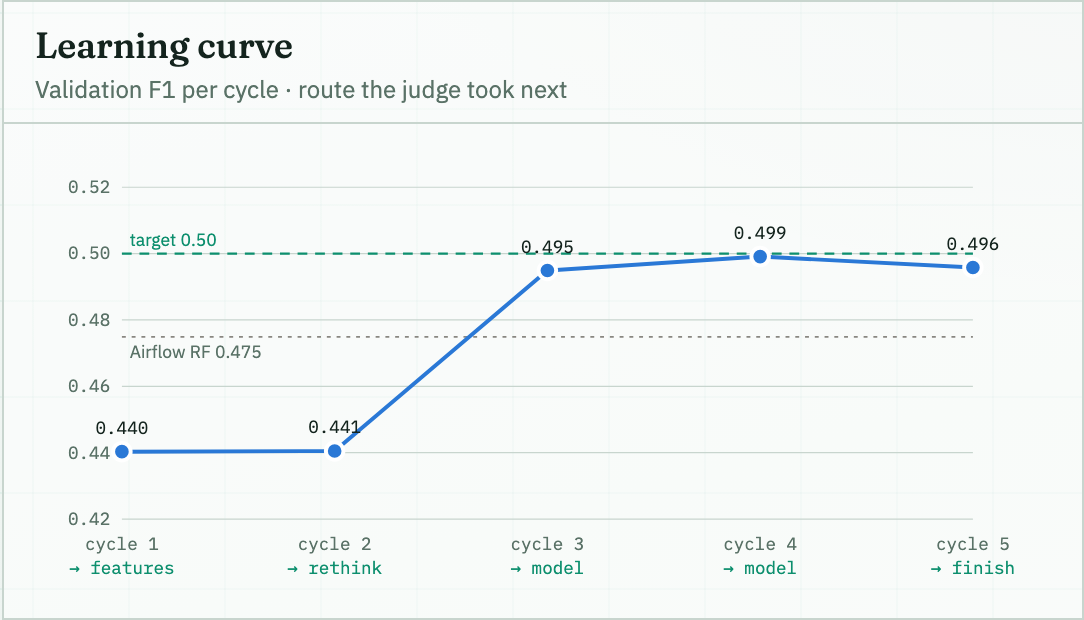
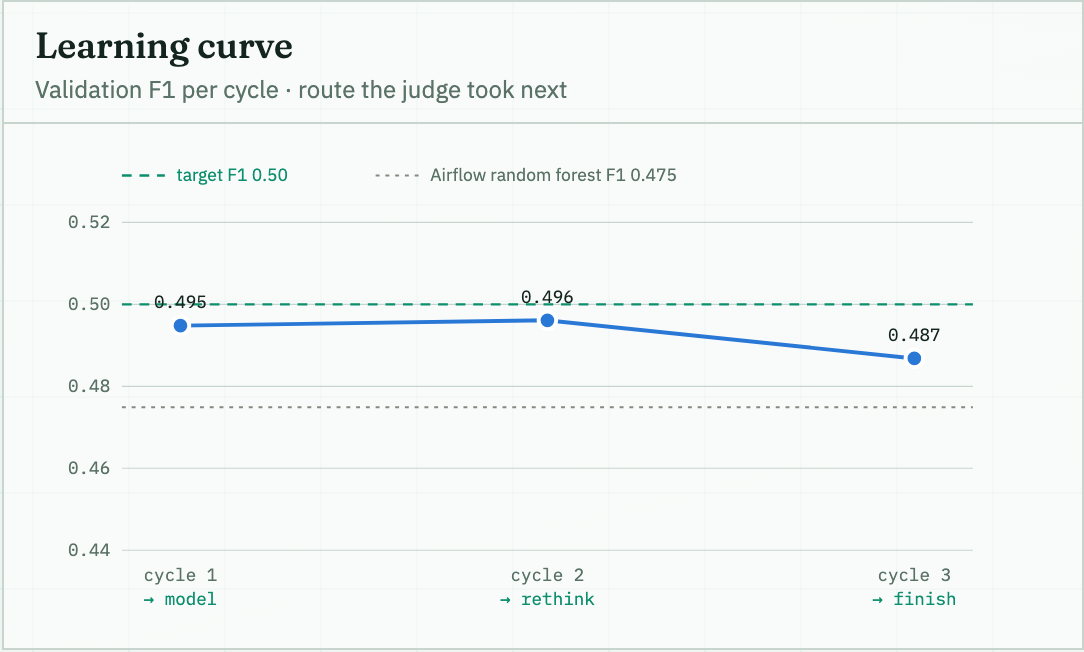
LLM-backed agent run: updated screenshots, results and fresh-architecture wording

diff --git a/frontend/src/pages/OlistLoopPage.tsx b/frontend/src/pages/OlistLoopPage.tsx
@@ -197,11 +197,12 @@ function ExperimentsTable({ rows }: { rows: ExperimentRow[] }) {
 function LearningCurve({ rows, target, airflowF1 }: { rows: ExperimentRow[]; target: number; airflowF1?: number }) {
   const pts = rows.filter((r) => typeof r.validation?.f1 === 'number')
   if (pts.length === 0) return <p className="text-sm text-mist">Plots after the first evaluation.</p>
-  const W = 520, H = 220, L = 44, R = 40, T = 16, B = 34
+  const W = 520, H = 236, L = 44, R = 40, T = 34, B = 34
   const vals = [...pts.map((r) => r.validation!.f1), target, airflowF1 ?? target]
   const lo = Math.floor((Math.min(...vals) - 0.02) * 50) / 50
   const hi = Math.ceil((Math.max(...vals) + 0.02) * 50) / 50
-  const x = (i: number) => L + (pts.length === 1 ? (W - L - R) / 2 : (i * (W - L - R)) / (pts.length - 1))
+  const PAD = 30 // keep the first/last point and its label clear of the axis and edge
+  const x = (i: number) => L + PAD + (pts.length === 1 ? (W - L - R - 2 * PAD) / 2 : (i * (W - L - R - 2 * PAD)) / (pts.length - 1))
   const y = (v: number) => T + ((hi - v) * (H - T - B)) / (hi - lo)
   const ticks = Array.from({ length: Math.round((hi - lo) / 0.02) + 1 }, (_, i) => lo + i * 0.02)
   return (
@@ -215,14 +216,19 @@ function LearningCurve({ rows, target, airflowF1 }: { rows: ExperimentRow[]; tar
         </g>
       ))}
       <line x1={L} x2={W - R} y1={y(target)} y2={y(target)} stroke="#0d8f6e" strokeDasharray="5 4" strokeWidth={1.2} />
-      <text x={L + 4} y={y(target) - 4} textAnchor="start" fontSize={9} className="fill-teal">
-        target {target.toFixed(2)}
+      {airflowF1 != null && (
+        <line x1={L} x2={W - R} y1={y(airflowF1)} y2={y(airflowF1)} stroke="#898781" strokeDasharray="2 3" strokeWidth={1} />
+      )}
+      {/* legend for the reference lines, above the plot so it never collides with points */}
+      <line x1={L} x2={L + 22} y1={10} y2={10} stroke="#0d8f6e" strokeDasharray="5 4" strokeWidth={1.2} />
+      <text x={L + 28} y={13} fontSize={9} className="fill-teal">
+        target F1 {target.toFixed(2)}
       </text>
       {airflowF1 != null && (
         <>
-          <line x1={L} x2={W - R} y1={y(airflowF1)} y2={y(airflowF1)} stroke="#898781" strokeDasharray="2 3" strokeWidth={1} />
-          <text x={L + 4} y={y(airflowF1) + 11} textAnchor="start" fontSize={9} className="fill-mist">
-            Airflow RF {airflowF1.toFixed(3)}
+          <line x1={L + 130} x2={L + 152} y1={10} y2={10} stroke="#898781" strokeDasharray="2 3" strokeWidth={1} />
+          <text x={L + 158} y={13} fontSize={9} className="fill-mist">
+            Airflow random forest F1 {airflowF1.toFixed(3)}
           </text>
         </>
       )}

diff --git a/README.md b/README.md
@@ -348,34 +348,34 @@ The page at **`/olist-loop`** ([`OlistLoopPage.tsx`](frontend/src/pages/OlistLoo
 
 ### Evaluation results
 
-These screenshots and numbers come from a **heuristics-only run** (`--model none`), because the
-free OpenRouter quota (50 LLM requests per day) was used up during development. Every agent then
-uses its coded fallback; the diagnosis and routing logic are exactly the same as with an LLM.
-All runs are logged in `olist.agent_runs`.
+These screenshots and numbers come from a run with the free LLM `nvidia/nemotron-3.5-lightning:free`.
+**All 10 LLM agent calls returned valid decisions:** data scientist ×1, strategist ×2, feature
+engineer ×2, ML engineer ×3, judge ×2. The last judge step was decided by rule, because "finish"
+was the only allowed route. Every run is logged in `olist.agent_runs`.
 
 | Cycle | What the agents did | Val F1 | Val AUC | Diagnosis → route |
 |---|---|---|---|---|
-| 1 | logistic regression + lateness buckets | 0.440 | 0.760 | weak ranking → **features** |
-| 2 | + delivery-speed ratio, remote-city × late (IBGE) | 0.441 | 0.760 | no gain from the same fix → **rethink** |
-| 3 | strategist re-plans: gradient boosting, 4 recipes, tuned cutoff | 0.495 | 0.769 | ranking OK → **model** |
-| 4 | ML engineer: more, smaller boosting steps (500 iterations, lower learning rate) | **0.499** | 0.768 | ranking OK → **model** |
-| 5 | ML engineer: same again (700 iterations) | 0.496 | 0.769 | budget spent → **finish** |
+| 1 | strategist plans gradient boosting with all 7 recipes (incl. IBGE `remote_city_x_late`, `distance_bands`) and an F1-tuned cutoff | **0.495** | 0.769 | ranking OK → judge picks **model** |
+| 2 | ML engineer: smaller, more boosting steps (learning rate 0.035, 500 iterations) | 0.496 | 0.770 | only +0.001 from the same kind of fix → judge picks **rethink** |
+| 3 | strategist re-plans: random forest with the same features | 0.487 | 0.760 | 2 cycles without improvement → **finish** (plateau: early stop after 3 of 5 cycles) |
+
+The best configuration is cycle 1: cycle 2's +0.001 is below the 0.002 improvement threshold.
 
 ![Final evaluation on the sealed holdout vs Part 1 baselines](docs/images/olist/olist-agent-final-eval.png)
 
-**Sealed holdout** (19,165 orders; best configuration = cycle 4):
+**Sealed holdout** (19,165 orders; best configuration = cycle 1):
 
 | Model | Accuracy | Precision | Recall | F1 | ROC-AUC |
 |---|---|---|---|---|---|
 | Majority class | 0.872 | 0.000 | 0.000 | 0.000 | 0.500 |
 | Airflow logistic regression (Part 1) | 0.809 | 0.347 | 0.559 | 0.428 | 0.755 |
 | Airflow random forest (Part 1) | 0.866 | 0.477 | 0.472 | **0.475** | 0.760 |
-| **Agent loop: gradient boosting** | **0.879** | **0.535** | 0.421 | 0.471 | **0.772** |
+| **Agent loop: gradient boosting** | **0.875** | **0.512** | 0.431 | 0.468 | **0.771** |
 
-Confusion matrix on the holdout: **1,034** bad reviews caught, 1,420 missed, 900 false alarms out
-of 16,711 good orders.
+Confusion matrix on the holdout: **1,058** bad reviews caught, 1,396 missed, 1,010 false alarms
+out of 16,711 good orders.
 
-**How to read this for the support use case:** among orders the model flags, **53.5% really do get
+**How to read this for the support use case:** among orders the model flags, **51.2% really do get
 a bad review**, versus 12.8% for an order picked at random. That's about a 4× better hit rate for
 the support team's outreach.
 
@@ -392,13 +392,14 @@ are stratified and the same size, but they aren't the same rows.
    15–16% bad reviews versus 11% nearby, and their orders are late twice as often.
 3. **Accuracy is the wrong metric.** "Always good" scores 87% accuracy. F1 and ROC-AUC separate
    the models.
-4. **The diagnosis routing found the improvements.**
-   - Adding features didn't help the linear model (cycles 1–2), so the router triggered a
-     **rethink**.
-   - The re-plan to gradient boosting with a tuned cutoff jumped validation F1 from 0.441 to 0.495.
-   - From there, **model**-route tuning added a little more.
-   - The final model has the best ROC-AUC (0.772) and precision (0.535) of all models, while F1
-     ties the Part 1 random forest (0.471 vs 0.475).
+4. **The routing behaved as designed.**
+   - The LLM strategist started strong: gradient boosting with all feature recipes reached
+     validation F1 0.495, already above Airflow's 0.475.
+   - Tuning the cutoff and capacity (**model** route) added only +0.001, so the judge chose a
+     **rethink**. The re-plan (random forest) did worse, and the **plateau rule stopped the run
+     after 3 of 5 cycles** instead of spending the rest of the budget.
+   - The final model has the best ROC-AUC (0.771), precision (0.512) and accuracy (0.875) of all
+     models. Its F1 (0.468) is essentially tied with the Part 1 random forest (0.475).
 5. **There's a ceiling around F1 ≈ 0.5.** The data explains delivery-driven dissatisfaction well,
    but product quality and buyer expectations aren't observed. The plateau rule stops the loop
    when it stops improving instead of wasting cycles.
